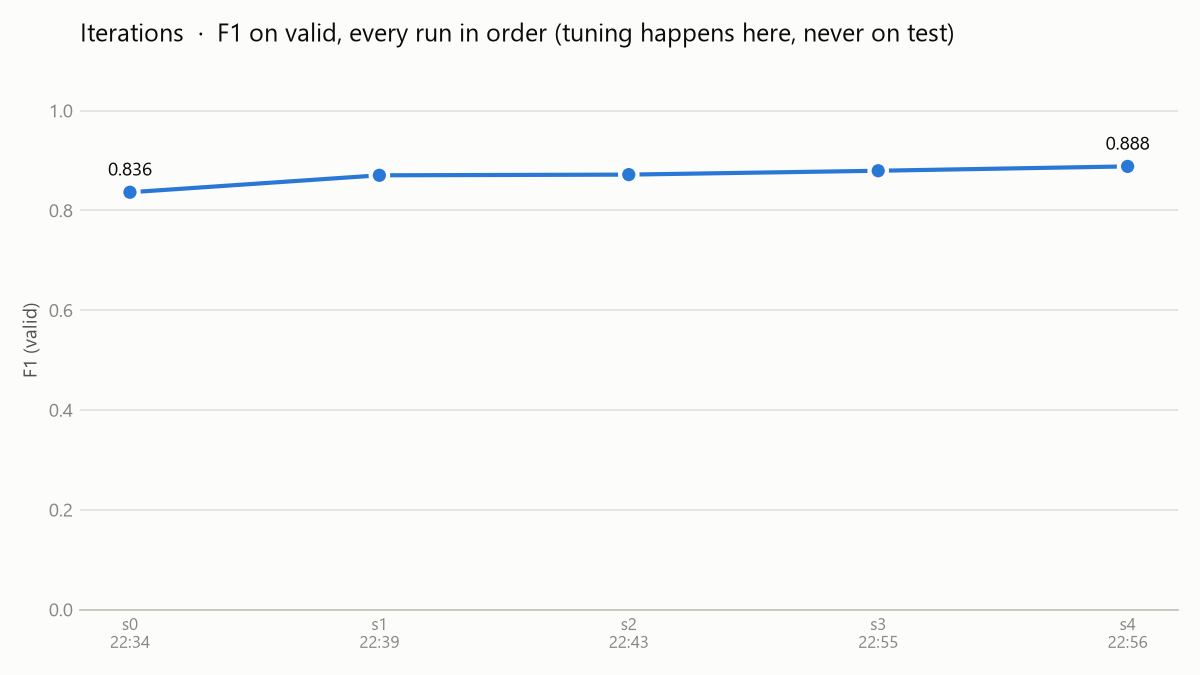
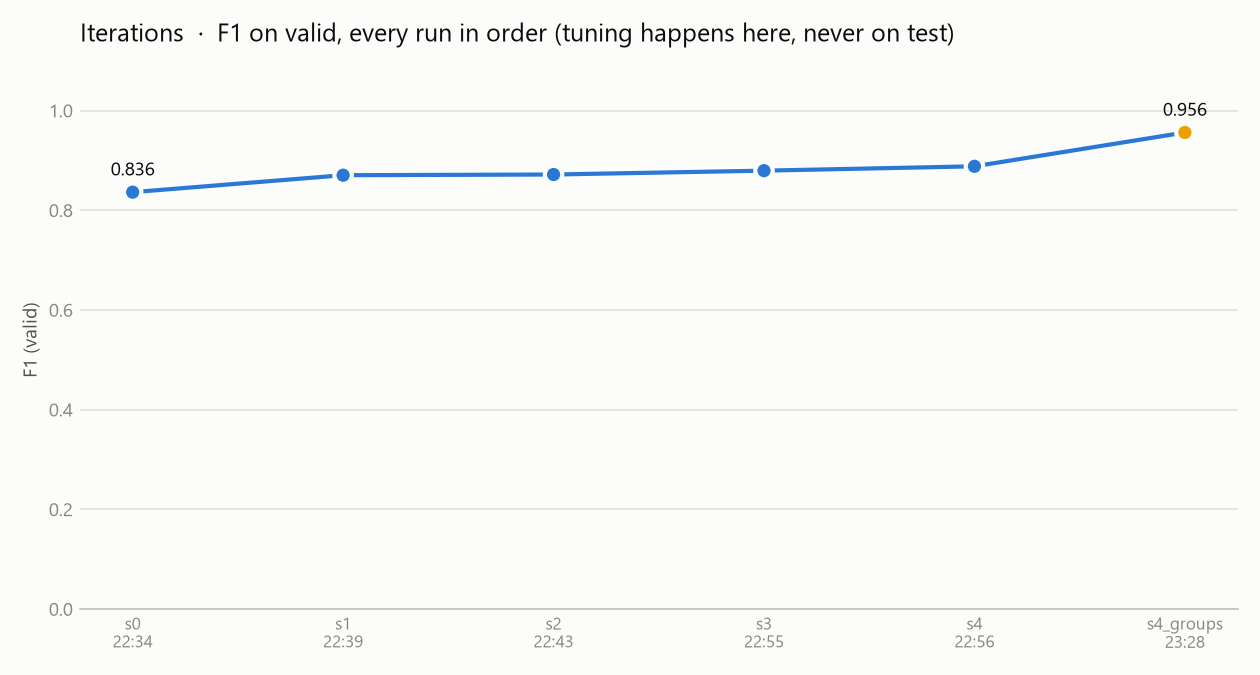
Add FINAL.md; fix report.py for full-split runs and keep s4_groups out of the headline
FINAL.md: dataset choice, benchmark design, metrics, models, every system
and its validation/test/full-test numbers, costs, the live link check, and
an honesty section listing the process problems we found (repeated test
runs, s4_groups label structure, Nemotron timeouts, cached latency, unequal
pipeline vs Claude, dirty-tree runs).

report.py crashed sorting None vs 300 sample limits; s4_groups now has its
own chart family. Regression test added. All local checks pass.

diff --git a/exactmatch/report.py b/exactmatch/report.py
@@ -17,13 +17,16 @@ HEADER = ("| System | Queries (no match) | F1 | ΔF1 vs s0 | Precision | Recall 
           "| False / missed | Cost per 1k | p95 latency | Errors | Run |")
 
 # Validated categorical slots 1-3 (dataviz palette, all-pairs CVD-safe); aqua is <3:1, so every mark is labeled.
-FAMILIES = {"Our pipeline (open model)": "#2a78d6", "Big open model": "#eb6834", "Closed frontier (Claude)": "#1baf7a"}
+# Slot 4 (yellow) marks s4_groups: it uses the catalog's product groups, which define gold, so it never counts
+# as "ours" in the headline (FINAL.md section 9).
+FAMILIES = {"Our pipeline (open model)": "#2a78d6", "Big open model": "#eb6834", "Closed frontier (Claude)": "#1baf7a",
+            "Uses catalog groups (separate)": "#eda100"}
 INK, INK2, MUTED, GRID, AXIS, SURFACE = "#0b0b0b", "#52514e", "#898781", "#e1e0d9", "#c3c2b7", "#fcfcfb"
 
 
 def family(system: str) -> str:
     return "Closed frontier (Claude)" if "claude" in system else "Big open model" if "big" in system \
-        else "Our pipeline (open model)"
+        else "Uses catalog groups (separate)" if "groups" in system else "Our pipeline (open model)"
 
 
 def _f(x, fmt=".3f"):
@@ -79,7 +82,7 @@ def build(runs: Path = RUNS, charts: list[str] = ()) -> str:
             out += [f"## {split}" + (f" (random sample of {limit})" if limit else " (full)"), "", HEADER,
                     "|" + "---|" * (HEADER.count("|") - 1)]
             base = latest.get((split, limit, "s0"), (None, None))[1]
-            for (s, lim, system), (run, m) in sorted(latest.items()):
+            for (s, lim, system), (run, m) in sorted(latest.items(), key=lambda kv: kv[0][2]):  # limit may be None
                 if (s, lim) != (split, limit):
                     continue
                 delta = f"{m['f1'] - base['f1']:+.3f}" if base and system != "s0" else "–"

diff --git a/tests/test_report.py b/tests/test_report.py
@@ -6,11 +6,12 @@ from pathlib import Path
 from exactmatch import report
 
 with tempfile.TemporaryDirectory() as tmp:
-    for name, system, f1 in [("20260101-000000_s0_test", "s0", 0.5), ("20260101-000001_s1_test", "s1", 0.1),
-                             ("20260101-000002_s1_test", "s1", 0.7)]:  # later s1 run must win
+    for name, system, f1, limit in [("20260101-000000_s0_test", "s0", 0.5, None), ("20260101-000001_s1_test", "s1", 0.1, None),
+                                    ("20260101-000002_s1_test", "s1", 0.7, None),  # later s1 run must win
+                                    ("20260101-000003_s1_test_n300", "s1", 0.6, 300)]:  # full and sampled runs side by side
         d = Path(tmp) / name
         d.mkdir()
-        (d / "config.json").write_text(json.dumps({"system": system, "split": "test", "limit": None}))
+        (d / "config.json").write_text(json.dumps({"system": system, "split": "test", "limit": limit}))
         (d / "metrics.json").write_text(json.dumps({
             "queries": 10, "queries_no_match": 3, "f1": f1, "precision": f1, "recall": f1, "no_match_acc": 1.0,
             "recall_at_k": 0.9, "k": 20, "false_matches": 1, "missed_matches": 2, "cost_per_1k_usd": 0.05,

diff --git a/FINAL.md b/FINAL.md
@@ -1,0 +1,226 @@
+# ExactMatch: final write-up
+
+*Fireworks: Deploy, Nov 2 2026. Team: Mihir Sahu (data, eval, results) and Ishita Kapoor (matching engine). Every number below comes from a run folder committed in `runs/`, and `results.md` is generated from those folders.*
+
+## 1. Summary
+
+**Task.** Given a product listing, or a link to one, return every listing of the **exact same product** in a catalog, with a confidence and evidence for each. If the product isn't in the catalog, return nothing.
+
+**Result.** On a fixed 300-query sample of the test split:
+- `s3`, our listwise harness on DeepSeek V4.1 Flash (an open model on Fireworks), reaches **F1 0.863**. Claude Opus 5.5 in the baseline pipeline reaches **F1 0.853**.
+- `s3` costs **$0.89 per 1,000 lookups vs $28.21 for Claude, 32× cheaper**, with **2.6× lower p95 latency** (3.7s vs 9.7s).
+- `s4` adds a cascade to Kimi K3 for uncertain cases: **F1 0.869** at $3.04 per 1,000 lookups.
+
+**At scale.** On all 1,500 test queries:
+- `s3` scores **0.881** and `s4` scores **0.885**, up from the baseline `s0`'s 0.838 on the same model.
+- `s3` is also cheaper than that baseline ($0.89 vs $1.12 per 1,000).
+
+**What the comparison means.** Claude ran our *baseline* pipeline (BM25 top 20, one yes/no question per candidate), not our harness. The claim is "a cheap open model inside a good harness beats a frontier model inside a naive one". It does not say the open model is smarter than Claude. Section 9 lists everything we found that weakens the claims, and how we handled it.
+
+## 2. Why this problem
+
+Marketplaces, price-comparison sites and catalog teams get the same product listed many times under different titles. *"Sony Bravia 46in LCD KDL-46V5100"* and *"Sony 46" BRAVIA V-Series Full HD LCD TV - KDL46V5100"* are one SKU. The KDL-46**W**5100 is a different product. Getting this wrong has three costs:
+- **Missed matches:** listings stay split, so reviews, inventory and the buy box are split too, and price comparisons miss competitors.
+- **False matches:** two different products get merged, or the wrong price is compared. This is worse, because customers see the wrong item.
+- **Manual review:** catalog teams pay people to check candidate pairs by hand.
+
+## 3. Choosing the dataset
+
+| Step | Decision | Why |
+|---|---|---|
+| First plan | **Abt-Buy** (DeepMatcher benchmark) | Well-known and small. |
+| Rejected | Abt-Buy | It is **pairs from two shops**, so most products have one match. Our product returns *every* listing of a product, which needs groups of listings. Its listings are also about 15 years old. |
+| Chosen | **WDC Products, multi-class, 80% corner cases** ([webdatacommons.org](https://webdatacommons.org/largescaleproductcorpus/wdc-products/)) | Offers from 3,259 web shops (2020 crawl), grouped into real products by `cluster_id`, about 5 offers per product. "80% corner cases" is its hardest setting: near-miss products that look alike, and true matches worded very differently. Official train/valid/test splits. 2.4 MB download. |
+| Not used | WDC page URLs | They exist only in a 4.3 GB file and are from 2020, so most are dead. No public benchmark has both live links and labeled product groups, so the benchmark uses records and live links are tested separately (section 8). |
+
+### How we turned it into "one listing in, every match out"
+- **Catalog:** the 2,841 WDC **train** offers, covering 500 products.
+- **Gold answer** for a query: the catalog offers with the same `cluster_id`. `cluster_id` never leaves `data.py`.
+- **Validation and test queries are never in the catalog,** so a system can't find the query itself.
+- **"No match" queries:** WDC's "100% unseen" test file has 500 products that aren't in the catalog. We split them by product, half to validation and half to test, so returning nothing is both tuned and scored.
+
+| Split | Queries | With no match | Avg. correct matches per query |
+|---|---|---|---|
+| validation | 1,496 | 500 | 3.8 |
+| test (full) | 1,500 | 500 | 3.8 |
+| **test sample** (shared by every system) | 300 | 110 | n/a |
+
+Our first scoring setup (catalog = train + valid + test) would have let queries find themselves, and the WDC "50% unseen" file shares 272 offers with train. The self-check in `python -m exactmatch.data` asserts that neither leak exists.
+
+## 4. Metrics
+
+| Metric | Definition |
+|---|---|
+| **F1** (primary) | Micro-averaged over (query, returned listing) pairs. Precision = share of returned listings that are truly the same product. Recall = share of true matches found. |
+| Exact-set accuracy | Share of queries where the returned set equals the gold set exactly, counting "nothing" as correct for no-match queries. |
+| No-match accuracy | Share of no-match queries where the system correctly returned nothing. |
+| Recall@20 | Share of true matches that appear in the top 20 retrieved candidates. This is the ceiling for the verifier. |
+| Cost per 1,000 lookups | Token usage × list price (Fireworks serverless, Anthropic API). Cached calls report their *original* cost, so reruns don't make a system look free. |
+| p95 / mean latency | Wall time per lookup. Only meaningful on a fresh cache; see section 9. |
+
+Error buckets (`python -m exactmatch.errors`, **validation runs only**; it refuses test runs) split every mistake into:
+- retrieval misses
+- verifier rejections, with and without a shared model number
+- false matches on lookalikes or conflicting model numbers
+
+## 5. What we built
+
+| File | Owner | What it does |
+|---|---|---|
+| `exactmatch/schema.py` | shared | `ProductRecord`, `Query`, `Match`, `Result`: the one contract everyone codes against |
+| `exactmatch/data.py` | A | Downloads WDC, builds catalog and splits, self-checks for leaks |
+| `exactmatch/evaluate.py` | A | Scorer and run logging. Runs several systems in parallel, 8 queries at a time; a crash is logged per query and never stops the run. Writes `runs/<time>_<system>_<split>/` with config, prompts, predictions and metrics |
+| `exactmatch/report.py` | A | Builds `results.md` and 5 charts from `runs/` |
+| `exactmatch/errors.py` | A | Error buckets, validation only |
+| `exactmatch/llm.py` | B (merged from both) | Fireworks client: per-thread sessions, jittered retries, SQLite cache, cost accounting, `seed`, `json_schema`, `reasoning_effort`, request-sized timeouts, and an error on empty truncated replies |
+| `exactmatch/retrieval.py` | B | BM25, Qwen3 embeddings, model-number index, fused with reciprocal rank fusion |
+| `exactmatch/systems/` | B (+ A for `s0_claude`) | One file per system, `find_matches(query, k) -> Result` |
+
+`main` got the shared contract first (plan, schema, data loader, scorer). Each person worked on their own branch, merged often, and `main` received everything at the end.
+
+## 6. Models
+
+| Role | Model | Price (USD per 1M tokens, in / out) | Notes |
+|---|---|---|---|
+| Our verifier | **DeepSeek V4.1 Flash** (Fireworks) | 0.30 / 1.20 | Cheap, but a large MoE model, not a small one. |
+| Big open reference / cascade | **Kimi K3** (Fireworks) | 3.00 / 15.00 | Used for `s0_big` and the `s4` escalation. |
+| Closed frontier reference | **Claude Opus 5.5** (Anthropic API) | 4.00 / 20.00 | Effort `low`. Thinking can't be turned off on this model, and its answers were about 4 output tokens. |
+| Embeddings | **Qwen3 Embedding 8B** (Fireworks) | n/a | Beat nomic-embed-text-v1.5 in hybrid recall@20 on validation (0.928 vs 0.912). |
+
+Lessons from getting models running:
+1. **The planned Llama 3.1 IDs return 404.** Fireworks no longer serves them.
+2. **Every listed Fireworks model reasons by default.** With `max_tokens=3` they all returned an empty answer, which would have scored the baseline at F1 = 0. The fix is `reasoning_effort="none"`, which GLM 5.3 rejects. We made empty, cut-off replies raise an error instead of silently counting as "no".
+3. **Nemotron 3.5 Lightning was our first small model.** It hung on about 1 in 6 requests at 16 at a time, and half its baseline queries failed. Section 9 covers what we did with those runs.
+
+## 7. The systems and how they improved
+
+Each step was motivated by error analysis on the **validation** split.
+
+| System | What it adds | Why (validation evidence) |
+|---|---|---|
+| `s0` | BM25 top 20, one yes/no call per candidate | Off-the-shelf baseline. |
+| `s0_big`, `s0_claude` | Same pipeline, Kimi K3 / Claude Opus 5.5 | What a stronger model alone buys. |
+| `s1` | **Hybrid retrieval** (BM25 + embeddings + model-number index), JSON verdict with confidence and evidence | `s0`'s biggest error bucket was retrieval: 44% of mistakes were true matches never retrieved. Recall@20 was capped at 0.869. |
+| `s2` | `s1` + few-shot examples mined from **train** labels | The top `s1` bucket (34%) was the verifier rejecting matches written with a different part-number alias, e.g. `WS-C2960-48TC-L` vs `Catalyst 2960 Plus-48TC-L`. |
+| `s3` | **One listwise call per query** over 30 candidates, each tagged with a model-number hint ("shares code X" / "different codes") | Comparing candidates against each other separates near-misses, and one call is cheaper than 20. Hints rather than hard rules, because on validation a shared 6+ character code meant a match only 62% of the time, and rejecting on conflicting codes would have dropped 9% of gold. |
+| `s4` | **Cascade:** `s3`, then uncertain queries re-judged by Kimi K3 | Uncertain means a pick under 0.9 confidence, no pick although a candidate shares a code, or a reply that doesn't parse. The setting was chosen on validation. |
+| `s4_groups` | `s4`, then the whole catalog product group of its top match | **Reported separately;** see section 9. |
+
+### Validation (300-query sample), where tuning happened
+
+| System | F1 | Precision | Recall | Recall@20 | Cost per 1k |
+|---|---|---|---|---|---|
+| `s0` | 0.836 | 0.920 | 0.766 | 0.869 | $1.11 |
+| `s1` | 0.870 | 0.931 | 0.817 | 0.922 | $3.09 |
+| `s2` | 0.872 | 0.933 | 0.818 | 0.925 | $8.02 |
+| `s3` | 0.879 | 0.941 | 0.825 | 0.923 | **$0.88** |
+| `s4` | **0.888** | 0.941 | 0.841 | 0.923 | $3.16 |
+
+`s1` cut validation retrieval misses from 144 to 84.
+
+### Test, shared 300-query sample (final runs on an empty cache)
+
+| System | F1 | Precision | Recall | No-match acc | Exact-set acc | Cost per 1k | p95 latency |
+|---|---|---|---|---|---|---|---|
+| `s0` (DeepSeek V4.1 Flash) | 0.814 | 0.880 | 0.757 | 0.982 | 0.573 | $1.13 | 26.5s* |
+| `s0_big` (Kimi K3) | 0.824 | 0.920 | 0.746 | 0.982 | 0.597 | $12.50 | 10.6s |
+| **`s0_claude` (Claude Opus 5.5)** | **0.853** | 0.944 | 0.778 | 0.991 | 0.653 | **$28.21** | 9.7s |
+| `s1` | 0.853 | 0.886 | 0.822 | 0.973 | 0.630 | $3.11 | 35.6s* |
+| `s2` | 0.783 | 0.889 | 0.699 | 0.964 | 0.527 | $8.03 | 21.0s* |
+| **`s3`** | **0.863** | 0.927 | 0.808 | 0.991 | **0.683** | **$0.89** | **3.7s** |
+| **`s4`** | **0.869** | 0.934 | 0.812 | 0.991 | 0.677 | $3.04 | 7.7s |
+
+\* The five systems ran side by side, which inflates latency for the per-candidate systems (20 calls each).
+
+### Test, full split (1,500 queries)
+
+| System | F1 | Precision | Recall | No-match acc | Exact-set acc | Cost per 1k |
+|---|---|---|---|---|---|---|
+| `s0` | 0.838 | 0.913 | 0.774 | 0.968 | 0.587 | $1.12 |
+| `s1` | 0.871 | 0.918 | 0.829 | 0.960 | 0.665 | $3.10 |
+| `s3` | 0.881 | 0.944 | 0.826 | 0.974 | 0.680 | $0.89 |
+| `s4` | **0.885** | 0.947 | 0.830 | 0.978 | 0.689 | $3.07 |
+| *`s4_groups` (see section 9)* | *0.959* | *0.968* | *0.951* | *0.978* | *0.955* | *$3.07* |
+
+Claude was run on the 300-query sample only; we chose not to spend about $42 and an hour running it on all 1,500.
+
+### Cost per 1,000 lookups
+
+| System | Cost | vs Claude | Why |
+|---|---|---|---|
+| `s0_claude` | $28.21 | n/a | 20 calls per lookup on a $4 / $20 model |
+| `s0_big` | $12.50 | 2.3× cheaper | 20 calls per lookup on Kimi K3 |
+| `s2` | $8.03 | 3.5× cheaper | Few-shot examples added to each of 20 prompts |
+| `s1` | $3.11 | 9× cheaper | 20 JSON calls per lookup |
+| `s4` | $3.04 | 9× cheaper | `s3` plus Kimi K3 on uncertain queries |
+| `s0` | $1.13 | 25× cheaper | 20 short yes/no calls |
+| **`s3`** | **$0.89** | **32× cheaper** | **One** listwise call per lookup |
+
+## 8. Live link check
+
+We pasted a real Best Buy link: the [Keychron V1 Max](https://www.bestbuy.com/product/keychron-v1-max-75-rgb-mechanical-keyboard-qmk-built-in-ai-launcher-hot-swappable-black/CGC7F9C276/sku/13005877), model `V1M-D4`, $114.99. We read the page's built-in product data (schema.org JSON-LD) in a browser.
+- **Result:** `s0`, `s1`, `s2` and `s0_claude` all correctly returned **no match**. The 2020 catalog has no keyboards; the nearest candidates were Razer mice, a printer and a UPS battery.
+- **Speed and cost:** `s1` took 10.5s and cost $0.003; Claude cost $0.036.
+- **Limit:** "no match" is the right answer, but a positive live demo needs a small catalog of current listings, which we did not build.
+
+## 9. Honesty: problems we found, and when
+
+None of these came from code reading test labels. We audited the code at the end: no system reads validation or test labels, only `s2` and `s4_groups` use labels at all (train only), and retrieval indexes only the catalog. The process problems below are real, and we report them as they happened.
+
+1. **We looked at the test split many times, not once.** Our plan said the test split is frozen and used only for final scoring. In practice we ran systems on the test sample from 13:44 onwards, 17 test runs in all, while `s1`–`s4` and `s4_groups` were still being built. Nobody read test *errors*, and every threshold was tuned on validation. But design choices after 14:49 were made with test scores visible, and `s4_groups` was built after full-test `s3`/`s4` scores were known. *Caught at the final audit.* **Mitigation:** the validation ladder shows the same order of systems as test.
+2. **`s4_groups` uses the same groups that define the correct answers.** It returns the whole catalog group of the top match, using train labels. That's a fair production design when a catalog is already grouped into products. But in this benchmark, gold *is* those groups, so one correct top match yields the entire answer. Claude and `s0`–`s4` never got the groups. *Caught when it landed:* it is reported only in its own row and section, never in the comparison with Claude.
+3. **The first small-model baseline measured an outage, not the model.** Nemotron runs had read timeouts on 150 of 300 test queries and 133 of 300 validation queries, giving F1 of about 0.30. *Caught when the runs finished:* they are moved to `runs/_invalid/` with a note, and we switched to DeepSeek V4.1 Flash.
+4. **Cached reruns reported fake latency.** A rerun served from the LLM cache showed p95 latency near 0.1s. *Caught mid-afternoon:* the final 300-query test runs used an empty cache. Ishita's full-split runs reused cached calls, so **their latency is not reliable** (e.g. `s4_groups` 0.1s) and we don't quote it. Costs are unaffected, because the cache stores each call's original cost.
+5. **The comparison with Claude is not like for like.** Claude ran our baseline pipeline, not our harness, at effort `low`. A Claude inside the `s3`/`s4` harness might well score higher. Our claim is about harness design and cost, not raw model ability.
+6. **`s2` regressed on test after a late retrieval change.** It scored 0.851 on the test sample before commit `3b94efa` ("deterministic retrieval") and 0.783 after. We report the final measured number.
+7. **Most runs were made from uncommitted code.** Run configs record the commit with a `-dirty` flag, e.g. `f766e47-dirty`. The flag is honest, but exact code for those runs can't be reproduced from a commit alone. In several cases the uncommitted changes were report or analysis files, not systems.
+8. **The test sample has 110 no-match queries, not 100.** Our own status page said 100 for a while. The showcase now reads the number from the data.
+9. **Two bugs in `report.py`, caught by the final checks.** It crashed once full-split runs sat next to 300-query runs, and it counted `s4_groups` as "our pipeline", so it could have entered the headline. Both are fixed: `s4_groups` now has its own labelled chart family, and a regression test covers mixed runs.
+
+### Final checks
+There is no GitHub Actions workflow in the repo, so we ran these locally on the merged code before submitting:
+- the data loader's leak check (`python -m exactmatch.data`)
+- all 5 test suites (`test_evaluate`, `test_report`, `test_errors`, `test_engine`, `test_llm`)
+- an import check that all 8 systems expose `find_matches`
+- `compileall`
+
+All pass.
+
+## 10. Not finished
+
+- **Link ingestion (`ingest.py`) and a live demo catalog.** These were the third team role, never committed. The live link check in section 8 used a browser instead.
+- **`s5`, a LoRA fine-tune** of the small model on train pairs. We didn't start it.
+- **Claude on the full test split, or inside our harness.** Either would make the comparison stricter.
+
+## 11. Reproduce
+
+```bash
+pip install -r requirements.txt            # Python 3.11
+cp .env.example .env                       # add FIREWORKS_API_KEY (and ANTHROPIC_API_KEY for s0_claude)
+python -m exactmatch.data                  # downloads WDC, prints split stats, checks for leaks
+python -m tests.test_evaluate && python -m tests.test_report && python -m tests.test_errors && python -m tests.test_engine
+EM_CACHE=.cache/fresh.sqlite python -m exactmatch.evaluate --system s0 s1 s2 s3 s4 --split test --limit 300 --workers 4
+python -m exactmatch.evaluate --system s3 --split test   # full split
+python -m exactmatch.report                # results.md + results/*.png
+python -m exactmatch.errors                # error buckets for the latest validation run
+```
+
+`s0` needs `EM_SMALL_MODEL=accounts/fireworks/models/deepseek-v4p1-flash` to match our runs; the library default is still Nemotron.
+
+## 12. Timeline (PST)
+
+| Time | What happened |
+|---|---|
+| 12:00 | Repo set up. First plan: two-listing matching on Abt-Buy. |
+| 12:24 | Scope changed to "link in, every match out", three roles. |
+| 12:42 | `PLAN.md`: switched to WDC Products; shared schema agreed. |
+| 12:54–13:02 | Data loader with leak checks, scorer, report. |
+| 13:04–13:10 | Two Fireworks clients written in parallel (later merged). Llama IDs found dead; reasoning models found to return empty answers. |
+| 13:21–13:44 | Claude reference built; Claude and Kimi baselines scored on the test sample. |
+| 13:58 | Error analysis tool. Nemotron baseline failing on timeouts. |
+| 14:37 | `s1` (hybrid retrieval). Switched to DeepSeek V4.1 Flash. |
+| 14:43 | `s2` (few-shot). |
+| 14:57 | `s3` (listwise + code hints) and `s4` (cascade). |
+| 15:05–15:12 | Final empty-cache runs of `s0`–`s4` on the test sample. Benchmark showcase published. |
+| 15:18–15:36 | Full 1,500-query test runs; `s4_groups` added and reported separately. |
+| 15:37 | Code and process audit (section 9); everything merged to `main`. |

diff --git a/results.md b/results.md
@@ -1,6 +1,6 @@
 # Results
 
-_Generated by `python -m exactmatch.report` at 2026-11-02 15:11. Do not edit by hand._
+_Generated by `python -m exactmatch.report` at 2026-11-02 15:40. Do not edit by hand._
 
 **Headline (test, 300 queries):** best system of ours `s4` reaches F1 0.869 vs Claude Opus 5.5 at 0.853 (101.8% of its F1) at 9x lower cost per lookup.
 
@@ -11,6 +11,16 @@ _Generated by `python -m exactmatch.report` at 2026-11-02 15:11. Do not edit by 
 ![latency_vs_f1.png](results/latency_vs_f1.png)
 ![quality_breakdown.png](results/quality_breakdown.png)
 ![iterations.png](results/iterations.png)
+
+## test (full)
+
+| System | Queries (no match) | F1 | ΔF1 vs s0 | Precision | Recall | No-match acc | Recall@k | False / missed | Cost per 1k | p95 latency | Errors | Run |
+|---|---|---|---|---|---|---|---|---|---|---|---|---|
+| `s0` | 1500 (500) | **0.838** | – | 0.913 | 0.774 | 0.968 | 0.875 @20 | 419 / 1284 | $1.123 | 4.86s | 0 | `20261102-232040_s0_test` |
+| `s1` | 1500 (500) | **0.871** | +0.034 | 0.918 | 0.829 | 0.960 | 0.919 @20 | 419 / 971 | $3.100 | 5.92s | 0 | `20261102-233612_s1_test` |
+| `s3` | 1500 (500) | **0.881** | +0.043 | 0.944 | 0.826 | 0.974 | 0.919 @20 | 278 / 991 | $0.886 | 2.92s | 0 | `20261102-231335_s3_test` |
+| `s4` | 1500 (500) | **0.885** | +0.047 | 0.947 | 0.830 | 0.978 | 0.919 @20 | 266 / 964 | $3.065 | 4.85s | 0 | `20261102-231621_s4_test` |
+| `s4_groups` | 1500 (500) | **0.959** | +0.122 | 0.968 | 0.951 | 0.978 | 0.919 @20 | 179 / 279 | $3.065 | 0.08s | 0 | `20261102-232829_s4_groups_test` |
 
 ## test (random sample of 300)
 
@@ -33,5 +43,6 @@ _Generated by `python -m exactmatch.report` at 2026-11-02 15:11. Do not edit by 
 | `s2` | 300 (111) | **0.872** | +0.035 | 0.933 | 0.818 | 0.991 | 0.925 @20 | 65 / 200 | $8.022 | 6.32s | 0 | `20261102-224307_s2_valid_n300` |
 | `s3` | 300 (111) | **0.879** | +0.043 | 0.941 | 0.825 | 0.991 | 0.923 @20 | 57 / 192 | $0.879 | 1.73s | 0 | `20261102-225519_s3_valid_n300` |
 | `s4` | 300 (111) | **0.888** | +0.052 | 0.941 | 0.841 | 0.991 | 0.923 @20 | 58 / 175 | $3.163 | 5.31s | 0 | `20261102-225625_s4_valid_n300` |
+| `s4_groups` | 300 (111) | **0.956** | +0.120 | 0.975 | 0.938 | 0.991 | 0.923 @20 | 27 / 68 | $3.163 | 0.26s | 0 | `20261102-232809_s4_groups_valid_n300` |
 
 Reproduce a row: `python -m exactmatch.evaluate --system <system> --split <split> [--limit N]`.
